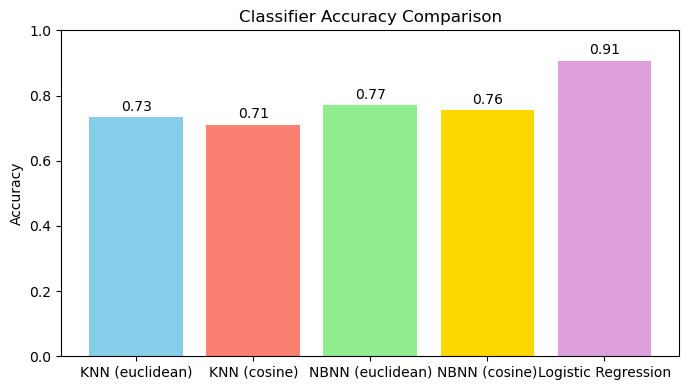
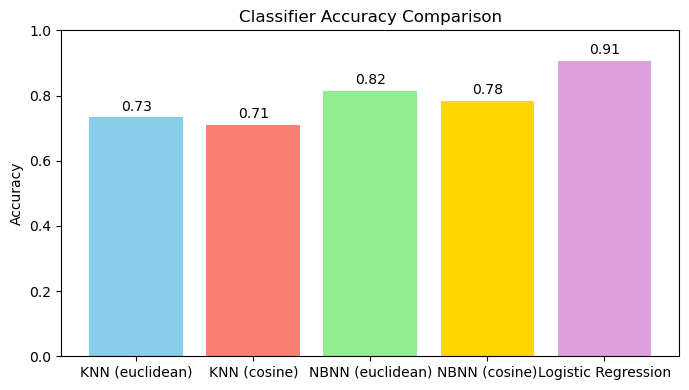
Improve the NBNN implementation.

Changed region(s): [[0.4572, 0.1846, 0.6096, 0.2769], [0.6401, 0.2154, 0.7925, 0.3077]]

diff --git a/ex_5/nbnn.py b/ex_5/nbnn.py
@@ -2,22 +2,47 @@ import numpy as np
 
 
 class NBNNClassifier:
-    def __init__(self, metric="euclidean"):
+    def __init__(self, metric="euclidean", patch_size=16, stride=16, image_shape=None):
         self.metric = metric
+        self.patch_size = patch_size
+        self.stride = stride
+        self.image_shape = image_shape
+
         self.X_train = None
         self.y_train = None
         self.classes_ = None
 
-    def fit(self, X, y):
-        """
-        Store training data and labels as NumPy arrays.
+        self._use_patches = False
+        self._image_shape = None
+        self._patch_descriptors = None
+        self._patch_labels = None
+        self._class_columns = None
+        self._patch_sq_norms = None
 
-        Requirements:
-            - convert X and y to NumPy arrays
-            - validate shapes
-            - store the sorted unique class labels in self.classes_
-            - return self
-        """
+    def _resolve_image_shape(self, n_features):
+        if self.image_shape is not None:
+            return self.image_shape
+        side = int(round(np.sqrt(n_features)))
+        if side * side == n_features:
+            return (side, side)
+        return None
+
+    def _extract_patches(self, row):
+        h, w = self._image_shape
+        image = row.reshape(h, w)
+        p = self.patch_size
+        s = self.stride
+        patches = []
+        for i in range(0, h - p + 1, s):
+            for j in range(0, w - p + 1, s):
+                patches.append(image[i : i + p, j : j + p].reshape(-1))
+        return np.asarray(patches, dtype=np.float64)
+
+    def _normalize_rows(self, matrix):
+        norms = np.linalg.norm(matrix, axis=1, keepdims=True)
+        return np.divide(matrix, norms, out=np.zeros_like(matrix), where=norms != 0)
+
+    def fit(self, X, y):
         X = np.asarray(X, dtype=np.float64)
         y = np.asarray(y)
 
@@ -29,54 +54,57 @@ class NBNNClassifier:
         self.X_train = X
         self.y_train = y
         self.classes_ = np.unique(y)
+
+        shape = self._resolve_image_shape(X.shape[1])
+        self._image_shape = shape
+        self._use_patches = (
+            shape is not None
+            and self.patch_size <= shape[0]
+            and self.patch_size <= shape[1]
+        )
+
+        if self._use_patches:
+            descriptor_blocks = []
+            label_blocks = []
+            for row, label in zip(X, y):
+                patches = self._extract_patches(row)
+                descriptor_blocks.append(patches)
+                label_blocks.append(np.full(len(patches), label))
+            descriptors = np.concatenate(descriptor_blocks, axis=0)
+            labels = np.concatenate(label_blocks, axis=0)
+        else:
+            descriptors = X
+            labels = y
+
+        if self.metric == "cosine":
+            descriptors = self._normalize_rows(descriptors)
+
+        self._patch_descriptors = descriptors
+        self._patch_labels = labels
+        self._patch_sq_norms = np.sum(descriptors**2, axis=1)
+        self._class_columns = [np.where(labels == cls)[0] for cls in self.classes_]
         return self
 
-    def _euclidean_distances(self, x):
-        """Return the Euclidean distance from x to all training samples."""
-
-        return np.sqrt(np.sum((self.X_train - x) ** 2, axis=1))
-
-    def _cosine_distances(self, x):
-        """
-        Return the cosine distance from x to all training samples.
-
-        Use the same convention as in knn.py:
-            cosine_distance = 1 - cosine_similarity
-        """
-
-        x_norm = np.linalg.norm(x)
-        train_norms = np.linalg.norm(self.X_train, axis=1)
-        denominator = train_norms * x_norm
-
-        dot_products = self.X_train @ x
-        similarity = np.divide(
-            dot_products,
-            denominator,
-            out=np.zeros_like(dot_products, dtype=np.float64),
-            where=denominator != 0,
-        )
-        return 1.0 - similarity
+    def _descriptor_distances(self, query):
+        train = self._patch_descriptors
+        if self.metric == "cosine":
+            query = self._normalize_rows(query)
+            return 1.0 - query @ train.T
+        elif self.metric == "euclidean":
+            query_sq = np.sum(query**2, axis=1, keepdims=True)
+            d2 = query_sq + self._patch_sq_norms[None, :] - 2.0 * (query @ train.T)
+            np.maximum(d2, 0.0, out=d2)
+            return np.sqrt(d2)
+        else:
+            raise ValueError(f"Unsupported metric: {self.metric}")
 
     def _class_scores(self, distances):
-        """
-        Compute one score per class.
-
-        For each class, use the distance of the nearest training sample from
-        that class. The predicted class is the class with the smallest score.
-        """
-
-        return np.array([distances[self.y_train == cls].min() for cls in self.classes_])
+        scores = np.empty(len(self.classes_), dtype=np.float64)
+        for index, columns in enumerate(self._class_columns):
+            scores[index] = distances[:, columns].min(axis=1).sum()
+        return scores
 
     def predict(self, X):
-        """
-        Predict labels for one or more samples with the NBNN rule.
-
-        Requirements:
-            - allow either a single sample or a batch
-            - compute distances to all training samples
-            - convert them into class-wise scores
-            - return the class label with the smallest score
-        """
         X = np.asarray(X, dtype=np.float64)
 
         if self.X_train is None or self.y_train is None:
@@ -86,14 +114,12 @@ class NBNNClassifier:
             X = X.reshape(1, -1)
 
         predictions = []
-        for x in X:
-            if self.metric == "euclidean":
-                distances = self._euclidean_distances(x)
-            elif self.metric == "cosine":
-                distances = self._cosine_distances(x)
+        for row in X:
+            if self._use_patches:
+                query = self._extract_patches(row)
             else:
-                raise ValueError(f"Unsupported metric: {self.metric}")
-
+                query = row.reshape(1, -1)
+            distances = self._descriptor_distances(query)
             scores = self._class_scores(distances)
             predictions.append(self.classes_[np.argmin(scores)])
 